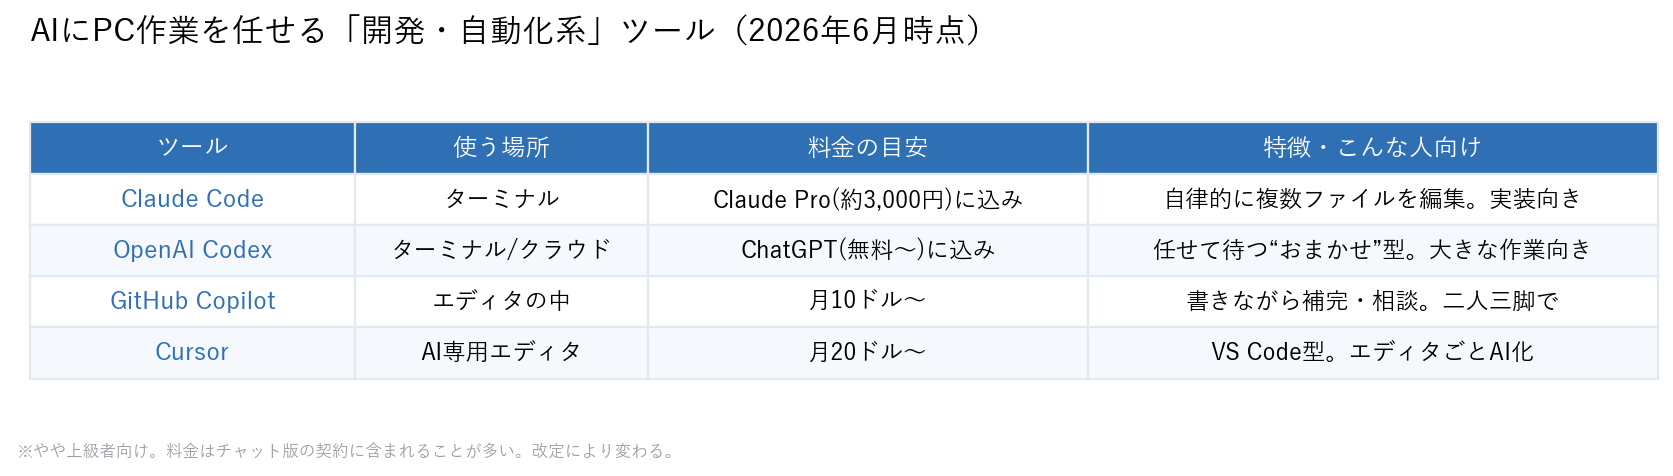
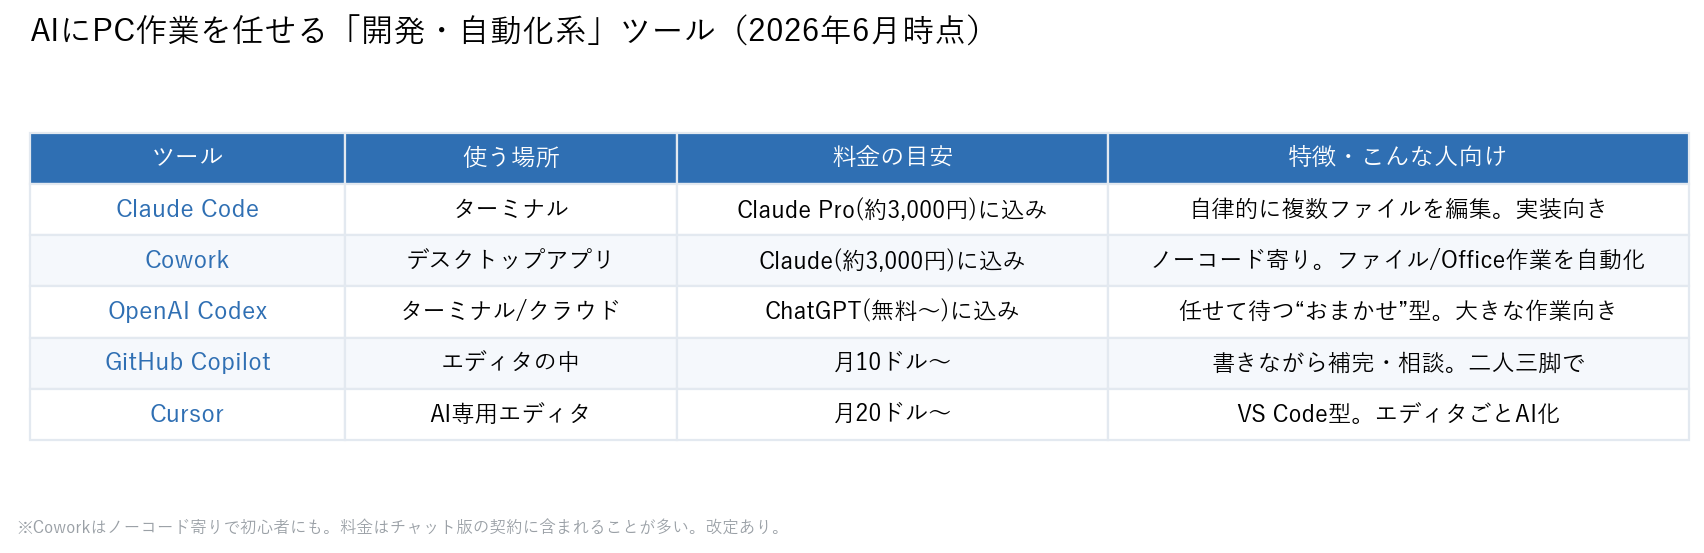
post_006整理: 偏り注記追加・Cowork/NotebookLMを表に統合・リサーチ章新設・自動化章にCowork・全体の流れ調整(図9枚/8081字)

diff --git a/tools/make_ai_compare.py b/tools/make_ai_compare.py
@@ -77,13 +77,14 @@ print("saved ai-compare.png")
 header3 = ["ツール", "使う場所", "料金の目安", "特徴・こんな人向け"]
 data3 = [
     ["Claude Code", "ターミナル", "Claude Pro(約3,000円)に込み", "自律的に複数ファイルを編集。実装向き"],
+    ["Cowork", "デスクトップアプリ", "Claude(約3,000円)に込み", "ノーコード寄り。ファイル/Office作業を自動化"],
     ["OpenAI Codex", "ターミナル/クラウド", "ChatGPT(無料〜)に込み", "任せて待つ“おまかせ”型。大きな作業向き"],
     ["GitHub Copilot", "エディタの中", "月10ドル〜", "書きながら補完・相談。二人三脚で"],
     ["Cursor", "AI専用エディタ", "月20ドル〜", "VS Code型。エディタごとAI化"],
 ]
-fig, ax = plt.subplots(figsize=(10.6, 3.0), dpi=160); ax.axis("off")
+fig, ax = plt.subplots(figsize=(10.8, 3.6), dpi=160); ax.axis("off")
 tbl = ax.table(cellText=data3, colLabels=header3, cellLoc="center", loc="center",
-               colWidths=[0.2, 0.18, 0.27, 0.35])
+               colWidths=[0.19, 0.2, 0.26, 0.35])
 tbl.auto_set_font_size(False); tbl.scale(1, 2.0)
 for (r,c), cell in tbl.get_celld().items():
     cell.set_edgecolor("#e3e9f0"); txt = cell.get_text()
@@ -94,7 +95,7 @@ for (r,c), cell in tbl.get_celld().items():
         txt.set_fontproperties(fp(10.5 if c>0 else 11, "bold" if c==0 else "normal"))
         if c==0: txt.set_color(BLUE)
 ax.set_title("AIにPC作業を任せる「開発・自動化系」ツール（2026年6月時点）", fontproperties=fp(14.5,"bold"), loc="left", x=0, pad=14)
-fig.text(0.012, 0.04, "※やや上級者向け。料金はチャット版の契約に含まれることが多い。改定により変わる。", fontproperties=fp(7.5), color="#9aa0a6")
+fig.text(0.012, 0.04, "※Coworkはノーコード寄りで初心者にも。料金はチャット版の契約に含まれることが多い。改定あり。", fontproperties=fp(7.5), color="#9aa0a6")
 fig.subplots_adjust(left=0.02, right=0.98, top=0.84, bottom=0.1)
 fig.savefig(os.path.join(IMG,"ai-coding.png"), facecolor="white", bbox_inches="tight"); plt.close(fig)
 print("saved ai-coding.png")
@@ -201,3 +202,13 @@ make_table("video-gen.png", "動画生成AIの比較（2026年6月）",
     ],
     [0.26, 0.24, 0.5],
     "※OpenAIのSoraは2026年に終了し、現在ChatGPTでは動画生成は使えません。料金・仕様は改定あり。", figh=3.4)
+
+make_table("research-compare.png", "リサーチに強いAIの比較（2026年6月）",
+    ["ツール", "無料", "料金の目安", "得意なこと"],
+    [
+        ["Perplexity", "○", "Pro 約3,000円", "出典つきでネット全体を調べる"],
+        ["NotebookLM", "○", "Plus 約2,900円", "自分の資料だけから回答・音声化"],
+        ["Gemini Deep Research", "月5回", "AI Pro 2,900円〜", "テーマを自動で深掘り調査"],
+    ],
+    [0.26, 0.13, 0.24, 0.37],
+    "※リサーチ＝ネット全体はPerplexity、自分の資料はNotebookLMが得意。料金・仕様は改定あり。", figh=2.7)
